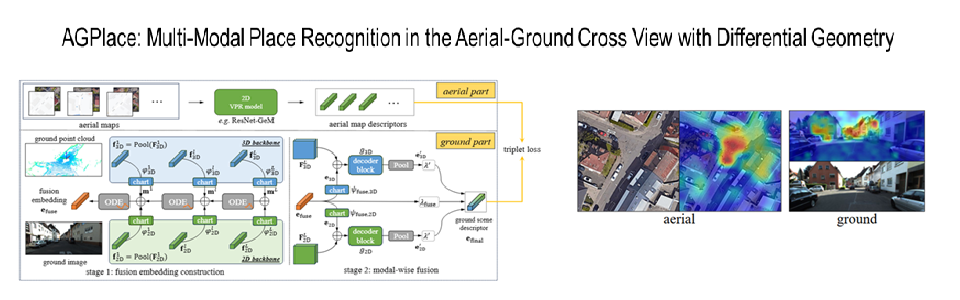
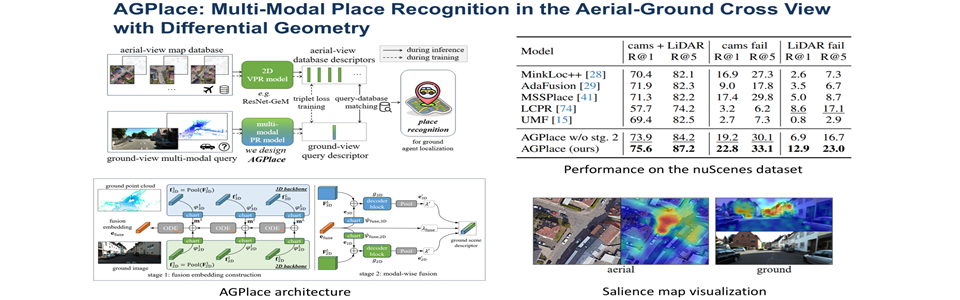
update

diff --git a/index.html b/index.html
@@ -52,14 +52,16 @@
 	<div class="slider-wrapper">
 		<div id="slider" class="nivoSlider">
 			<img src="images/slider/EEE.png" alt=""/>
-			<img src="images/slider/GGSP.png" alt=""/>
-			<img src="images/slider/kernel_GGSP.png" alt=""/>
-			<img src="images/slider/generalized_graphon.png" alt=""/>
-			<img src="images/slider/HamGNN.png" alt=""/>
-			<img src="images/slider/FROND.png" alt=""/>
-			<img src="images/slider/RobustLoc.png" alt=""/>
-			<img src="images/slider/DistilVPR.png" alt=""/>
+			<img src="images/slider/GGSP-UP.png" alt=""/>
+			<img src="images/slider/GDS.png" alt=""/>
+			<img src="images/slider/CP-multi-source.png" alt=""/>
+			<img src="images/slider/CCS.png" alt=""/>
+			<img src="images/slider/FD-MVGCL.png" alt=""/>
+			<img src="images/slider/Nvo.png" alt=""/>
+			<img src="images/slider/simpleGCL.png" alt=""/>
+			<img src="images/slider/FedNODE.png" alt=""/>
 			<img src="images/slider/AGPlace.png" alt=""/>
+			<img src="images/slider/Agent-OBJ.png" alt=""/>
 		</div>
 	</div>
 
